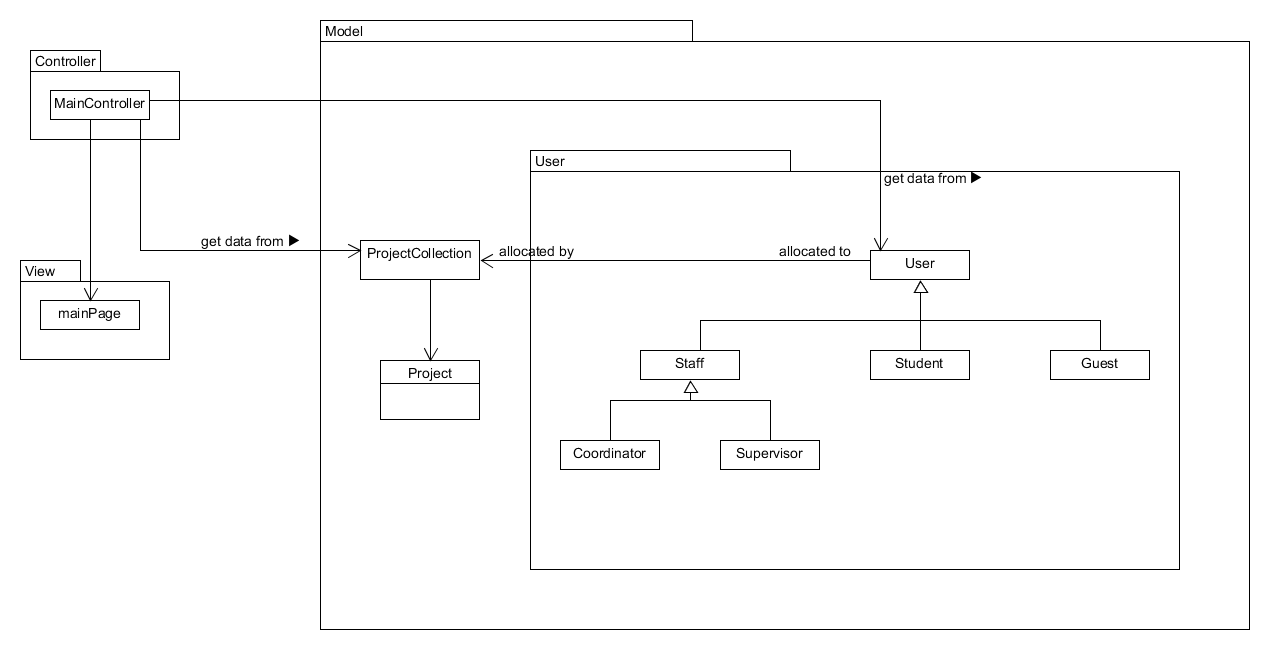
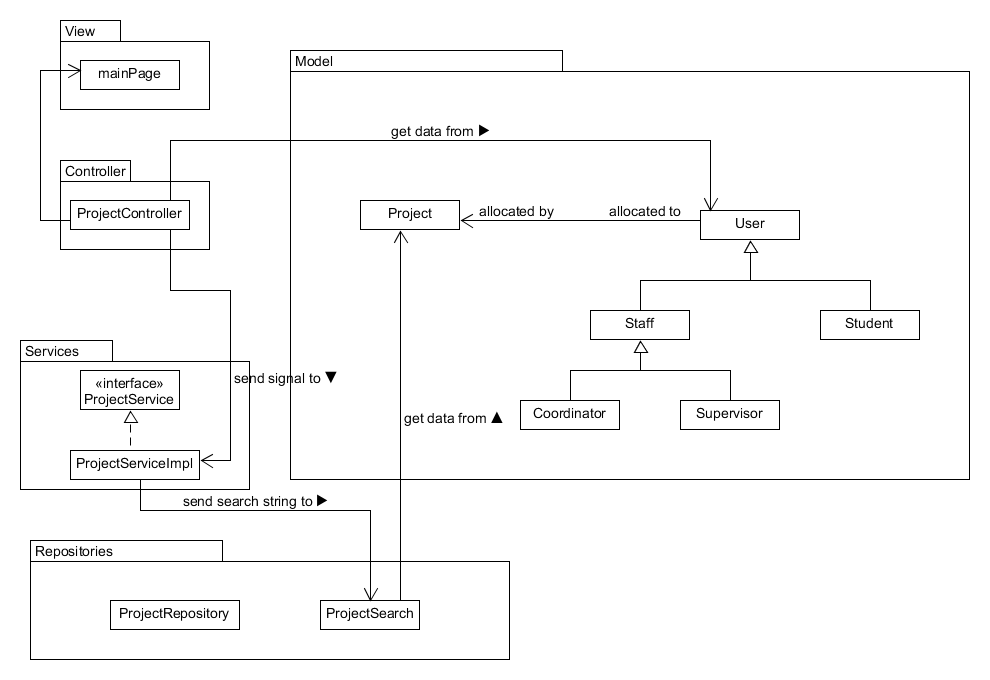
Update class diagram and design rationale for class diagram

diff --git a/docs/DesignRationaleClassDiagram.md b/docs/DesignRationaleClassDiagram.md
@@ -6,8 +6,10 @@
 
 For the class diagram, our team use the Model-View-Controller(MVC) design pattern because in this pattern, Model and View are independent to each other. Meaning, our team can split the tasks into back end and front end separately and each part will not intefere the other part's progress.
 
-In the Controller package, we have a MainController class to get data from Model and update it on View, or get user input from View and use the user input to get data from Model, and update it on View.
-
 The View package contain the UI file which Controller has the permission to update it or get data from it.
 
-The Model package manages the behavior and data of the application. Within the Model package, there is a ProjectCollection class which contain all the projects offered to students. Apart from that, Staff, Student, Guest, Coordinator and Supervisor are User, so those classes inherit from User class. The User class and Project class have a association relationship because one project can be allocated by a Coordinator to a Student.
+The Model package manages the behavior and data of the application. Within the Model package, there is a Project class which contain the detail of a project that is going to be offered to students. Apart from that, Staff, Student, Coordinator and Supervisor are User, so those classes inherit from User class. The User class and Project class have a association relationship because one project can be allocated by a Coordinator to a Student.
+
+In the Controller package, we have a ProjectController class to get data from Model and update it on View, or get user input from View and use the user input to get data from Model, and update it on View. We have Services package which a service will get a signal from ProjectController. After receiving signal, the service will use a query method from Repositories package to get the required data from repository.
+
+The class diagram is not completed yet because the Repositories package is needed to interact with the database. Although it is not completed, the design idea is there, the Repositories package contains source code to get the data from the database.
